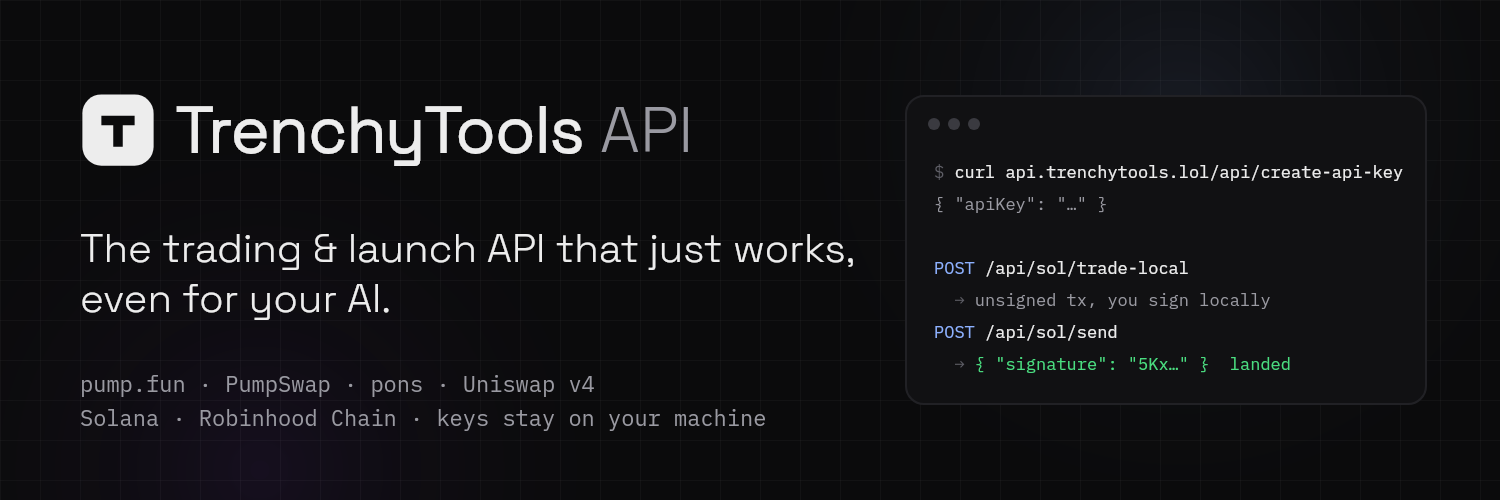
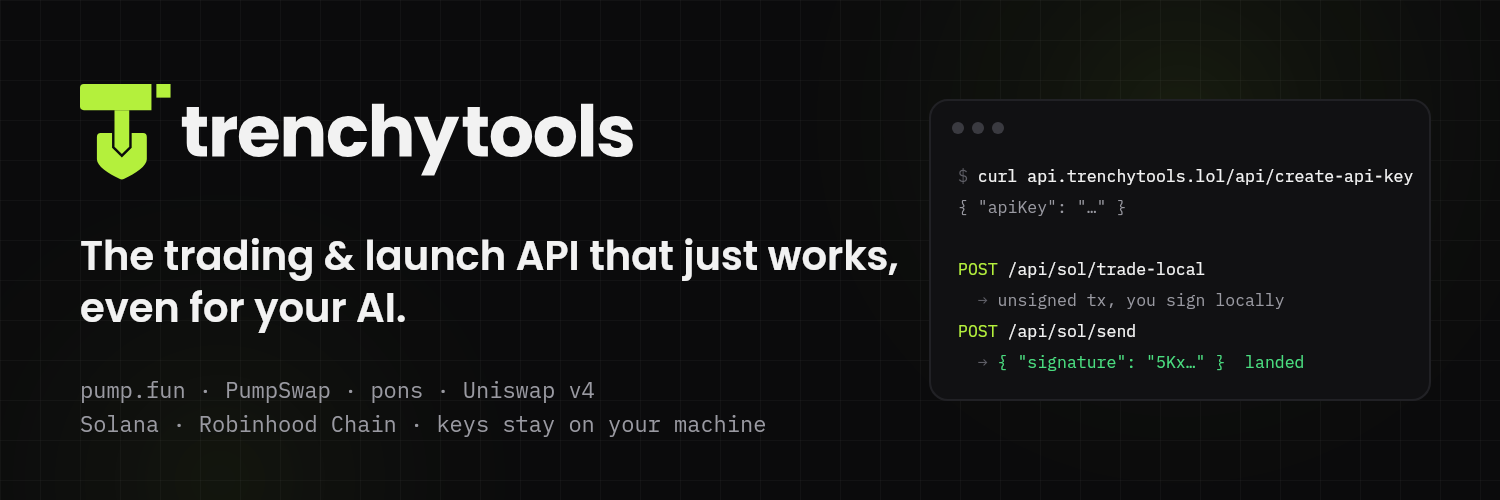
Release from trenchytools@dbb1f53

diff --git a/profile/README.md b/profile/README.md
@@ -2,7 +2,7 @@
 
 <p align="center"><a href="https://trenchytools-docs-production.up.railway.app/docs">Docs</a> · <a href="https://api.trenchytools.lol/api/create-api-key">Get an API key</a> · <a href="https://api.trenchytools.lol/AGENTS.md">AGENTS.md</a> · <a href="https://api.trenchytools.lol/openapi.json">OpenAPI</a> · <a href="https://trenchytools-docs-production.up.railway.app/status">Status</a> · <a href="https://t.me/trenchytools">Telegram</a> · <a href="https://x.com/trenchytoolz">X</a></p>
 
-**TrenchyTools** is a trading and launch API for pump.fun, PumpSwap and pons. One API key replaces the RPC node, the Jito client and the IPFS keys: the API builds unsigned transactions, your code signs them locally, the API sends them. Keys never leave your machine.
+**trenchytools** is a trading and launch API for pump.fun, PumpSwap and pons. One API key replaces the RPC node, the Jito client and the IPFS keys: the API builds unsigned transactions, your code signs them locally, the API sends them. Keys never leave your machine.
 
 ### Starters
 
